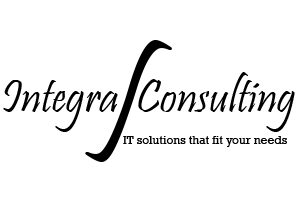
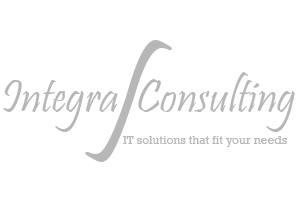
Segunda Version
Añadidos Miembros, textos editados, cambio de logo, etc

Changed region(s): [[0.0, 0.18, 0.99, 0.81]]

diff --git a/index.html b/index.html
@@ -53,13 +53,16 @@
             <div class="collapse navbar-collapse" id="bs-example-navbar-collapse-1">
                 <ul class="nav navbar-nav navbar-right">
                     <li>
-                        <a class="page-scroll" href="#about">Acerca de nosotros</a>
+                        <a class="page-scroll" href="#about">¿Por qué Integra?</a>
                     </li>
                     <li>
-                        <a class="page-scroll" href="#services">Servicios</a>
+                        <a class="page-scroll" href="#services">Acerca de nosotros</a>
                     </li>
                     <li>
-                        <a class="page-scroll" href="#portfolio">Portfolio</a>
+                        <a class="page-scroll" href="#portfolio">Áreas de trabajo</a>
+                    </li>
+					<li>
+                        <a class="page-scroll" href="#members">¿Quiénes somos?</a>
                     </li>
                     <li>
                         <a class="page-scroll" href="#contact">Contacto</a>
@@ -88,7 +91,8 @@
                 <div class="col-lg-8 col-lg-offset-2 text-center">
                     <h2 class="section-heading">Tenemos lo que necesitas</h2>
                     <hr class="light">
-                    <p class="text-faded">Nuestras soluciones se adaptan a las necesidades de los clientes al formar un equipo de trabajo en el que la colaboración es nuestro principal valor.
+                    <p class="text-faded">Somos un equipo de profesionales en Sistemas. Brindamos todos los servicios tecnológicos necesarios para apoyar tus proyectos. Abordamos tus necesidades desde una perspectiva integral de tecnología.
+					Nos adaptamos a las necesidades de los clientes al formar un equipo de trabajo en el que la colaboración es nuestro principal valor.
 					</p>
                     <a href="#services" class="btn btn-default btn-xl page-scroll">Conocenos!</a>
                 </div>
@@ -138,7 +142,7 @@
             </div>
 			<div class="col-lg-8 col-lg-offset-2 text-center">
 			<br/>
-				<a href="#portfolio" class="btn btn-primary btn-xl page-scroll">Nuestros trabajos</a>
+				<a href="#portfolio" class="btn btn-primary btn-xl page-scroll">Nuestras áreas de trabajo</a>
 			</div>
         </div>
     </section>
@@ -152,7 +156,7 @@
                         <div class="portfolio-box-caption">
                             <div class="portfolio-box-caption-content">
                                 <div class="project-category text-faded">
-                                    Category
+                                    Relevamiento de Procesos
                                 </div>
                                 <div class="project-name">
                                     Project Name
@@ -167,7 +171,7 @@
                         <div class="portfolio-box-caption">
                             <div class="portfolio-box-caption-content">
                                 <div class="project-category text-faded">
-                                    Category
+                                    Análisis y diseño de soluciones
                                 </div>
                                 <div class="project-name">
                                     Project Name
@@ -182,7 +186,7 @@
                         <div class="portfolio-box-caption">
                             <div class="portfolio-box-caption-content">
                                 <div class="project-category text-faded">
-                                    Category
+                                    Desarrollos a medida
                                 </div>
                                 <div class="project-name">
                                     Project Name
@@ -197,7 +201,7 @@
                         <div class="portfolio-box-caption">
                             <div class="portfolio-box-caption-content">
                                 <div class="project-category text-faded">
-                                    Category
+                                    Infraestructura
                                 </div>
                                 <div class="project-name">
                                     Project Name
@@ -212,7 +216,7 @@
                         <div class="portfolio-box-caption">
                             <div class="portfolio-box-caption-content">
                                 <div class="project-category text-faded">
-                                    Category
+                                    Project Management
                                 </div>
                                 <div class="project-name">
                                     Project Name
@@ -227,7 +231,7 @@
                         <div class="portfolio-box-caption">
                             <div class="portfolio-box-caption-content">
                                 <div class="project-category text-faded">
-                                    Category
+                                    Soporte
                                 </div>
                                 <div class="project-name">
                                     Project Name
@@ -243,10 +247,56 @@
     <aside class="bg-dark">
         <div class="container text-center">
             <div class="call-to-action">
-                <a href="#contact" class="btn btn-default btn-xl wow tada page-scroll">Contactanos!</a>
+                <a href="#members" class="btn btn-default btn-xl wow tada page-scroll">¿Quiénes somos?</a>
             </div>
         </div>
     </aside>
+	
+	
+	
+	<section class="bg-primary" id="members">
+	<!-- Team Members Row -->
+	<div class="container">
+            <div class="row">
+                <div class="col-lg-12 text-center">
+                    <h2 class="section-heading">Nuestro Equipo</h2>
+                    <hr class="primary">
+                </div>
+            </div>
+        </div>
+        <div class="container">
+            <div class="row">
+
+				<div class="col-lg-4 col-sm-6 text-center">
+					<img class="img-circle img-responsive img-center" src="http://placehold.it/200x200" alt="">
+					<h3>Lic. Leandro Linich<br/>
+						<small>Partner</small>
+					</h3>
+					<p>Tecnología. Infraestructura. Arquitectura de la solución. Despliegue. Comercial y Ventas</p>
+				</div>
+				<div class="col-lg-4 col-sm-6 text-center">
+					<img class="img-circle img-responsive img-center" src="http://placehold.it/200x200" alt="">
+					<h3>Ing. Oscar Cáceres<br/>
+						<small>Partner </small>
+					</h3>
+					<p>Análisis y Diseño. Desarrollo. Arquitectura de Sistemas. I+D</p>
+				</div>
+				<div class="col-lg-4 col-sm-6 text-center">
+					<img class="img-circle img-responsive img-center" src="http://placehold.it/200x200" alt="">
+					<h3>Ing. Santiago Donikian<br/>
+						<small>Partner</small>
+					</h3>
+					<p>Análisis y Diseño. Desarrollo. Arquitectura de Sistemas. I+D</p>
+				</div>
+            </div>
+			<div class="col-lg-8 col-lg-offset-2 text-center">
+				<a href="#contact" class="btn btn-default btn-xl page-scroll">Contactanos!</a>
+			</div>
+        </div>
+    </section>
+        
+   
+	</section>
 
     <section id="contact">
         <div class="container">
